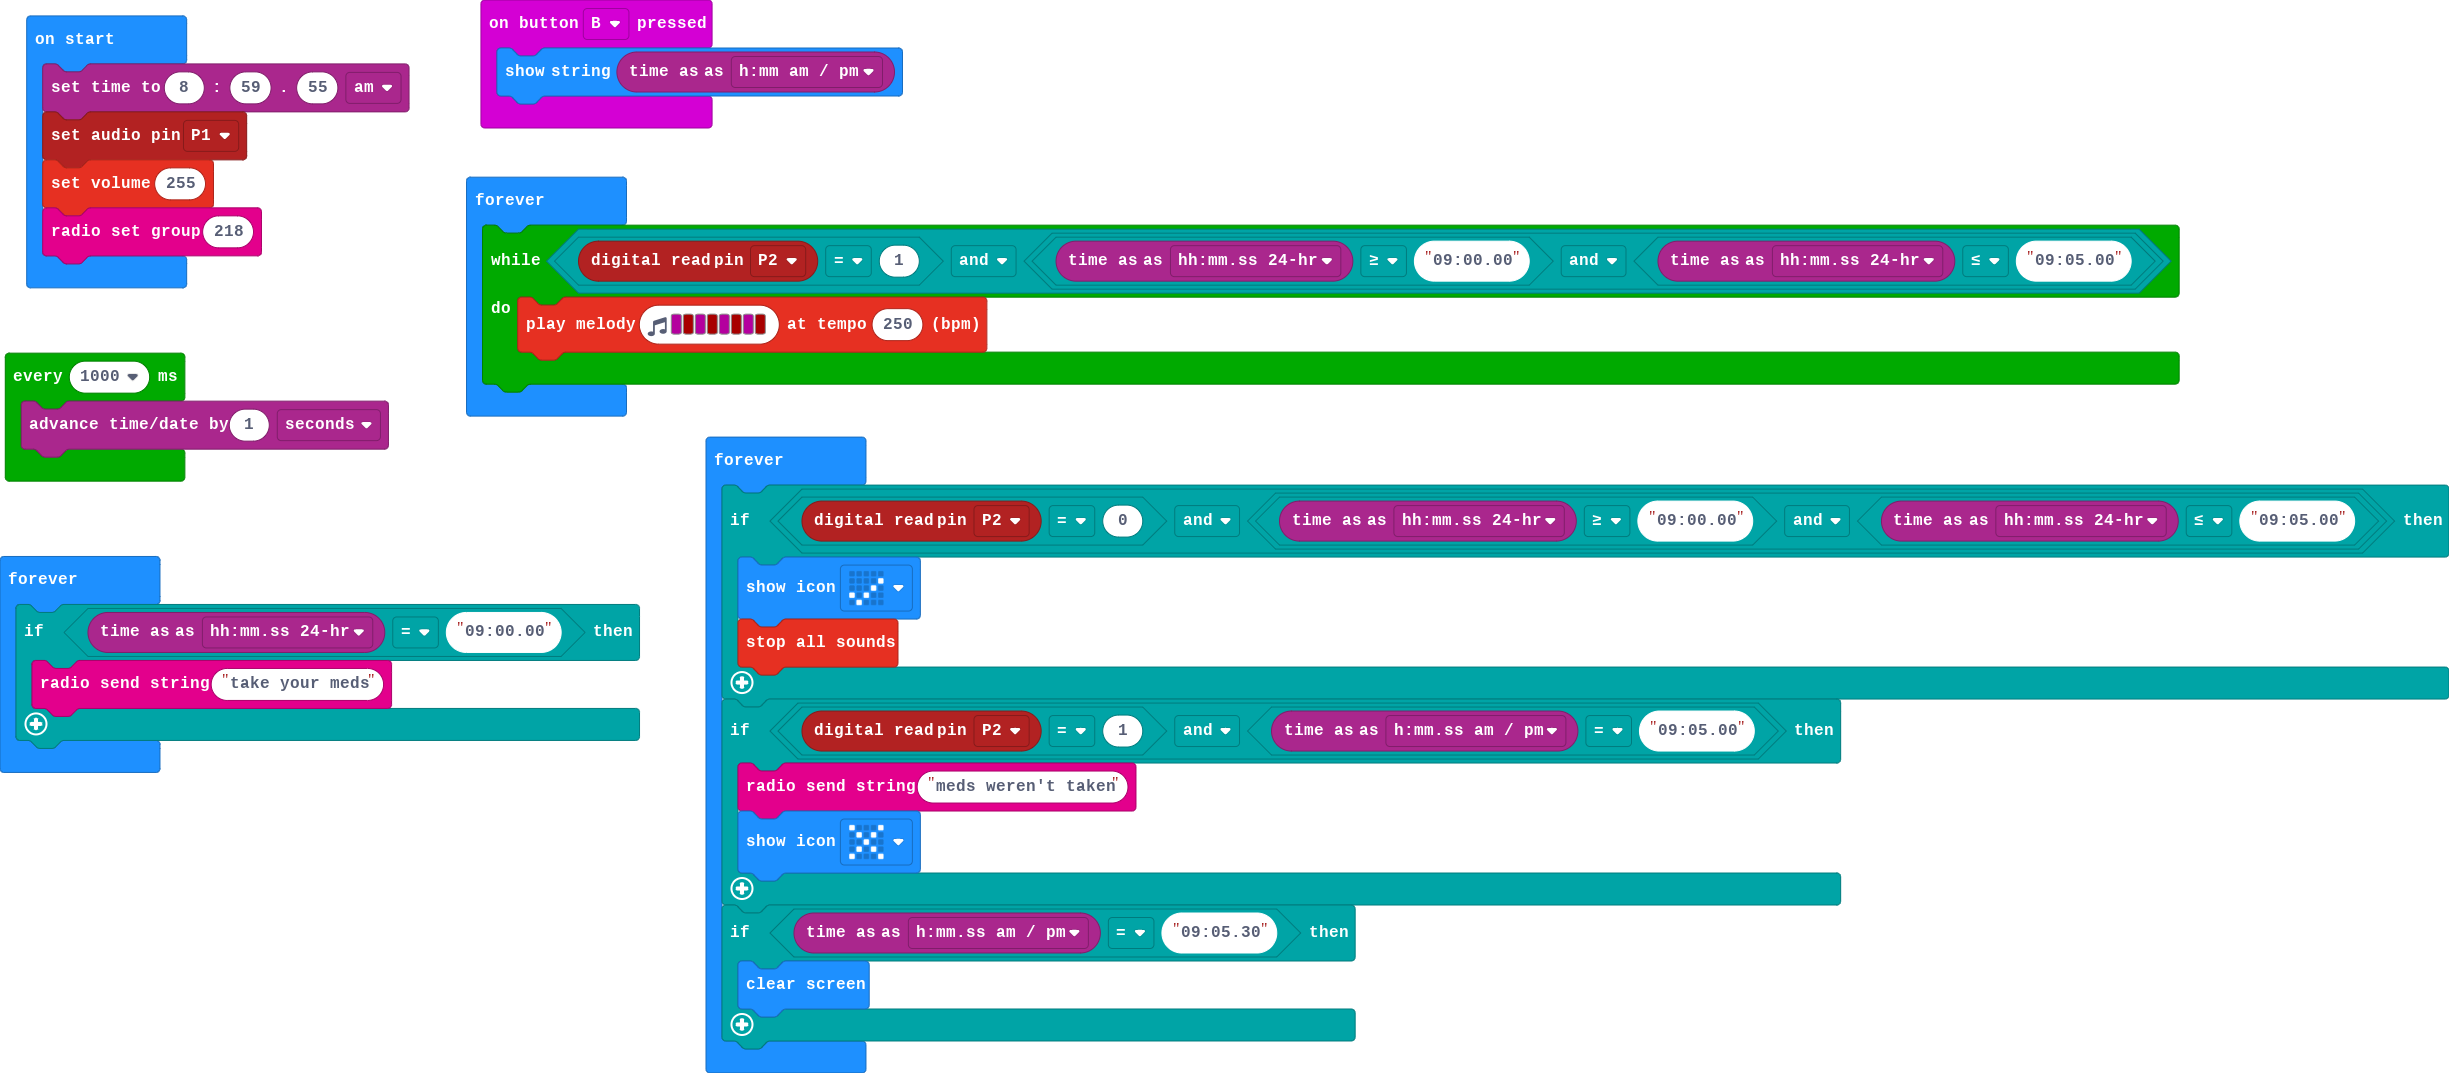
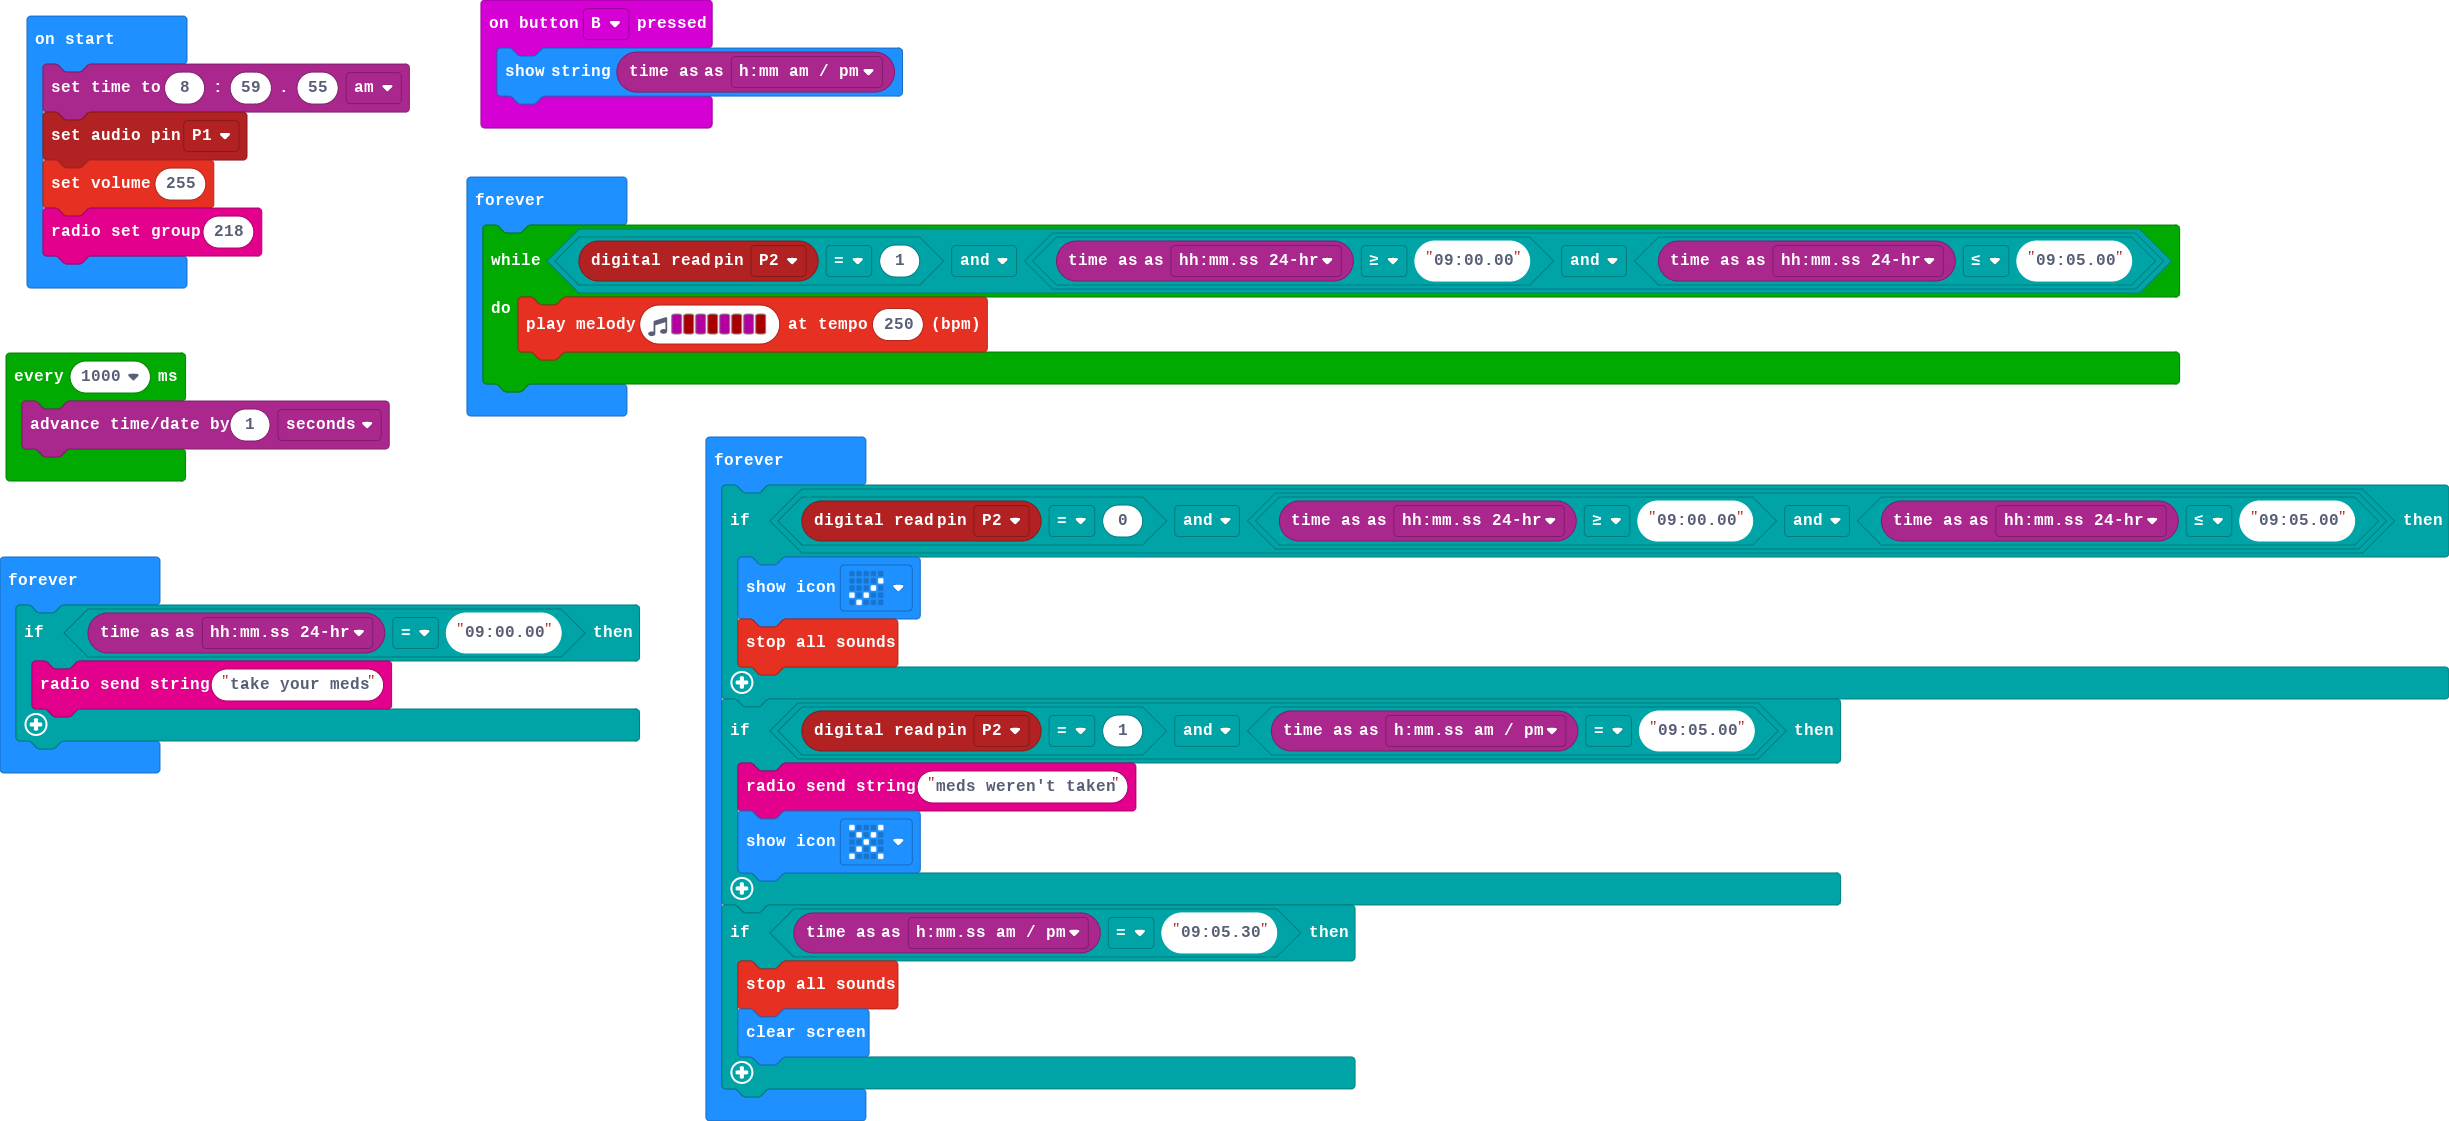
Update main.blocks, main.ts

diff --git a/main.ts b/main.ts
@@ -23,6 +23,7 @@ basic.forever(function () {
         basic.showIcon(IconNames.No)
     }
     if (timeanddate.time(timeanddate.TimeFormat.HMMSSAMPM) == "09:05.30") {
+        music.stopAllSounds()
         basic.clearScreen()
     }
 })
